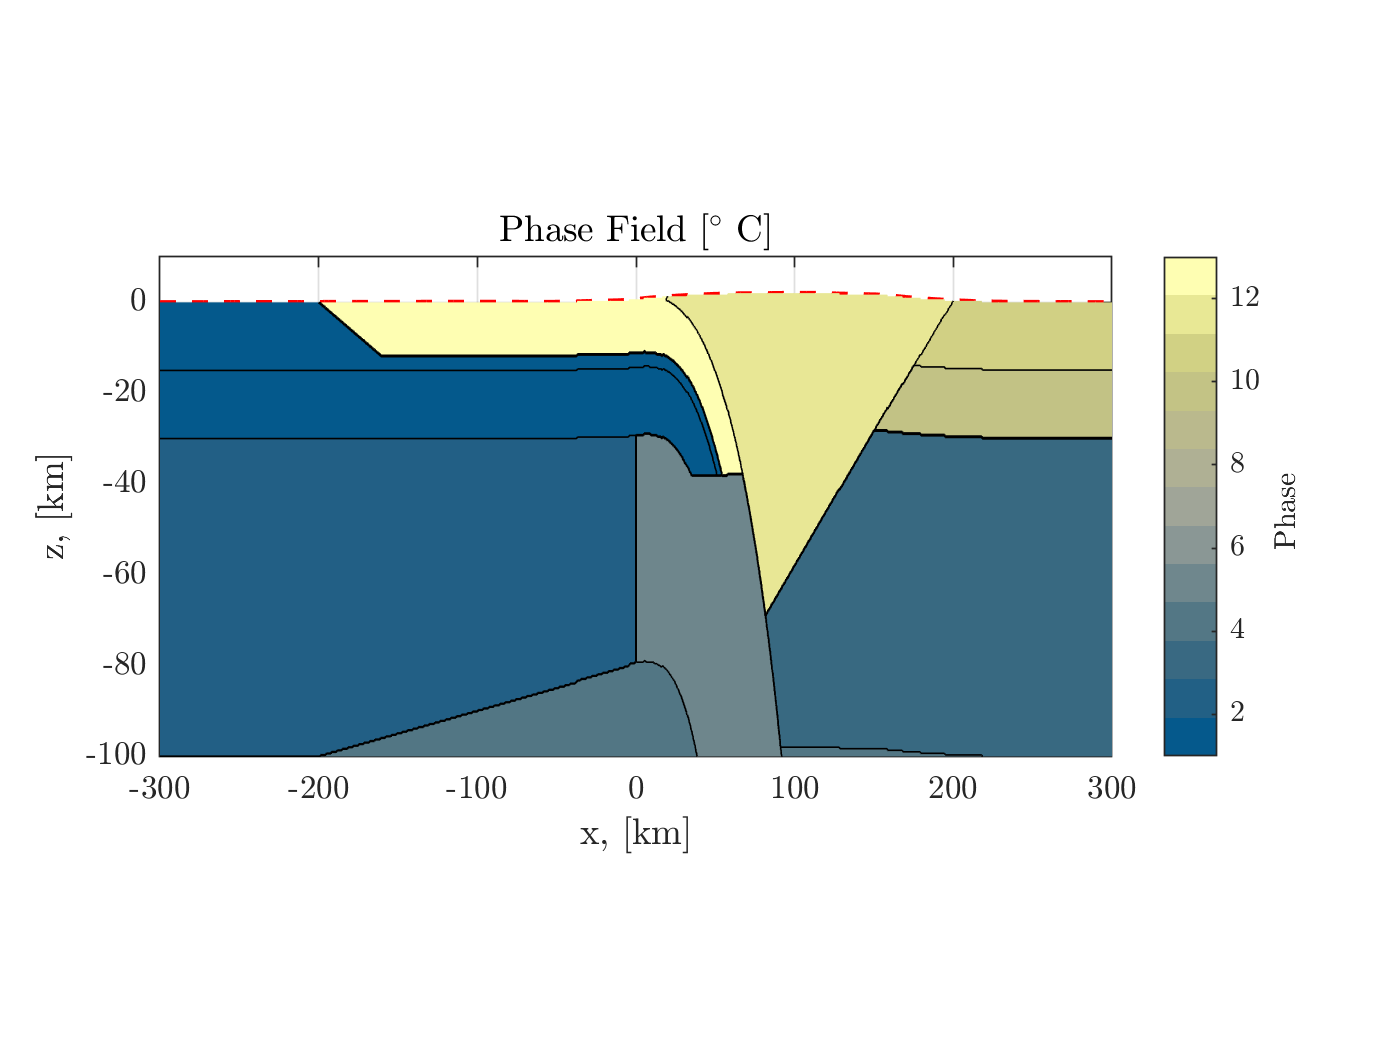
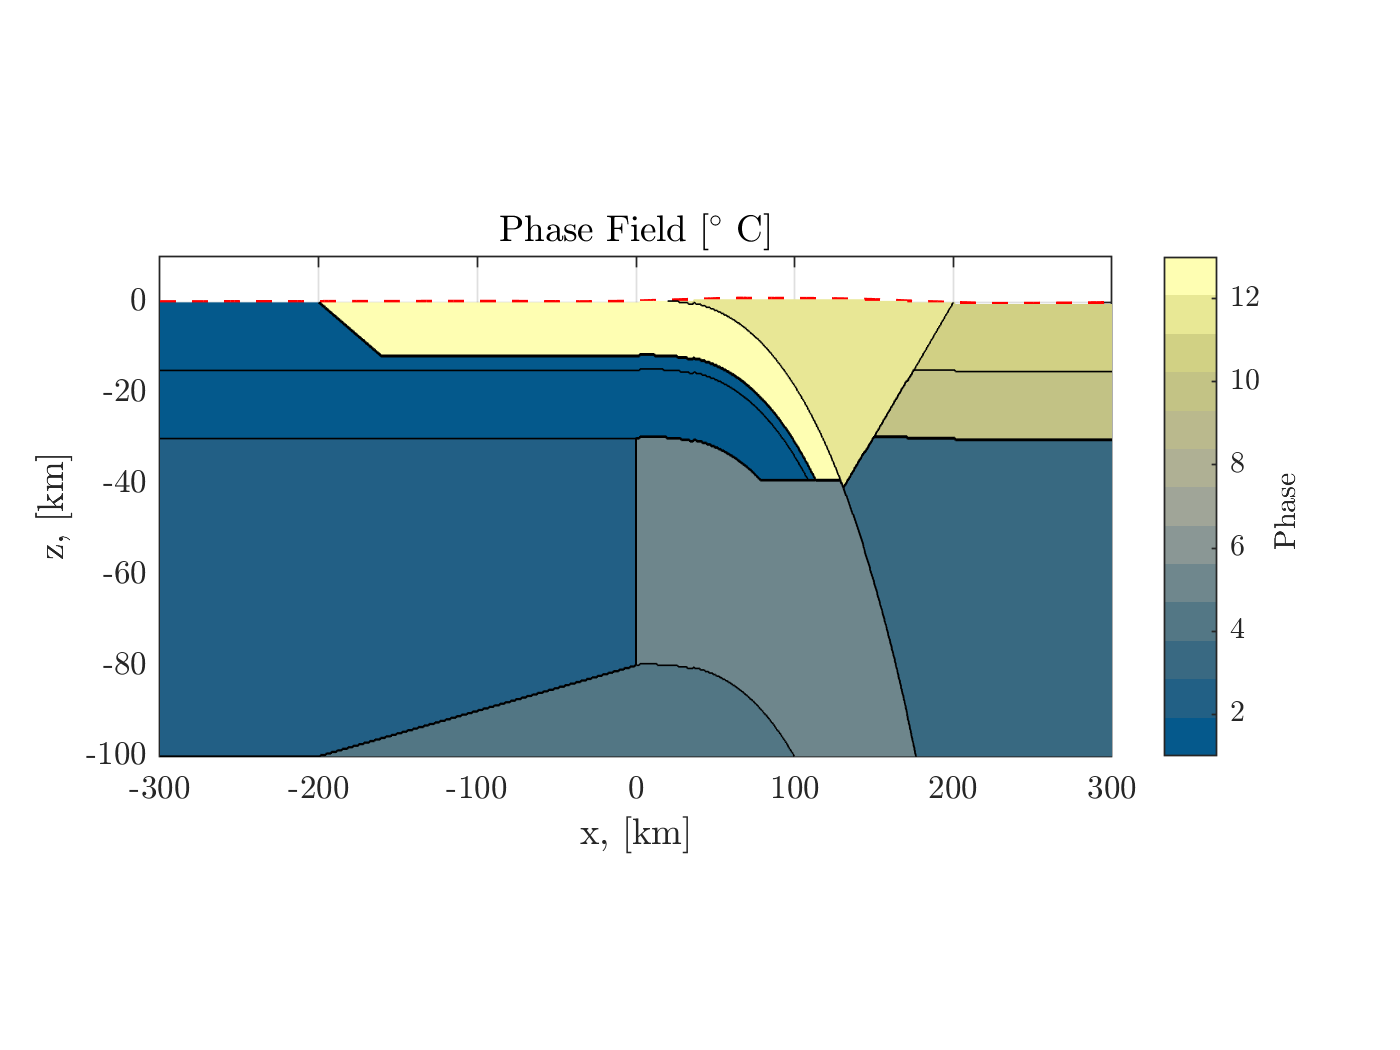
updates

Changed region(s): [[0.3993, 0.2743, 0.7986, 0.7314]]

diff --git a/Curry_Wurst_Slab_2D.m b/Curry_Wurst_Slab_2D.m
@@ -16,7 +16,7 @@ Parallel_partition     = 'ProcessorPartitioning_8cpu_4.1.2.bin';
 T.R        = 40;   %curvature radius
 T.theta_c  = 30;   %curvature radius ingested continental crust
 T.theta_dc = 20;   % additional curvature to emulate passive margin (optional)
-T.theta    = 70;   % curvature slab
+T.theta    = 90;   % curvature slab
 T.tk_WZ    = 0;   % thickness of the weak zone
 T.L0       = 500;  % length of the slab from the bottom of the lithosphere
 T.D0       = 80;   % Thickness of the slab
@@ -26,7 +26,7 @@ T.r  = [T.R T.R+T.D0];
 T.r_WZ = [T.r(2), T.r(2)+T.tk_WZ];
 T.D_WZ = -100;
 T.Depth_C = -40;
-T.Length = 455;
+T.Length = 500;
 T.Type = 'Ribe_Mode'; % 'Ribe_Mode'
 T.CCS.phases = [13,1,2];
 T.CCS.Stratigraphy=[0,-12,-15,-30];
@@ -325,7 +325,7 @@ r     = Slab.r;
 L0    = Slab.L0 - Slab.R;
 sl    = 1               ;
 arc_angleS = [];
-if ~strcmp(type,'Ribe_Mode')
+if ~strcmp(type,'Mode_1')
     ind = (A.Xpart(:)>=Slab.C(1) & A.Xpart(:)<=Slab.C(1)+2.*L0) & A.Zpart(:)>=-1.5*L0 & A.Zpart(:)<=1.0;
     A_time = cputime;
     x     = A.Xpart(:);
@@ -412,52 +412,44 @@ if strcmp(Slab.Type,'Ribe_Mode')
     if strcmp(type,'Weak')
         weak_flag = 1;
     end
-    % Ribe equation can create artifacts if certain market that does not
-    % belong to the slab are taken into account. Since most of the
-    % algorithm lies on the distance estimation from a point and a generic
-    % curve, it is not possible to predict before hand which marker is not
-    % belonging to the slab. A quick hack is to select the markers that
-    % feature a z position passing through the mid surface
-    % perpendicolarly
-    %compute arc_leght of the slab numerically
-    f_min_ = @(x) find_the_length_slab(theta,x,Slab.Length,C(1));
-    L0N =fzero(f_min_,Slab.L0);
-    % Ribe equations, as can be appreciated involves tangent. Tangent of
-    % angle close to 90 are going to infinite. Trying to solve this issue,
-    % but I need to find a cut off criteria for this method.
-    if L0N < D0
-        L0N = D0;
-    end
-    %Compute the top surface of the slab
-    z_top_f =-tan(theta*pi/180).*L0N ;
-    % Compute  the lowest point of the surface
-    P_B  = [(L0N-5)-sin(theta*pi/180)*D0, z_top_f-cos(theta*pi/180)*D0];
-    % Compute the slope of the thickness  (i.e. from the last point of the
-    line_m = (z_top_f-P_B(2))./(C(1)+L0N-5-P_B(1)); %
-    %Choose the marker that are loved by god.
-    % => Use the length of the slab for selecting the marker that are
-    % reasonably within the slab. (ArcLength)
-    % => Do not use the full L0N (i.e., the C(1)-> C(1)+L0N is the most
-    % approiate. But the angle function provided by Ribe has a minimum
-    % exactly at x=L0, and this create a bending at the end of the slab.
-    ip = z_p >= C(2)-Slab.Length & z_p<=0.0 & x_p>=C(1) & x_p < C(1)+(L0N-5) & z_p>line_m.*(x_p-P_B(1))+P_B(2);
+    % New method: 
+    % I was not the brightest candle in the chandelor, and I believed to
+    % getting rid of rotation matrix by using a convoluted method. However
+    % this methods miserably fail in certain condition
+
+    % [A] : coordinate slab tip of the slab 
+    SA = [C(1)+L0;0];
+    SB = [C(1)+L0;-D0]; 
+    % [B]: Find the coordinate of the bended slab 
+    theta_r = theta*pi/180; 
+    rotation_matrix_0 = [cos(theta_r) sin(theta_r); -sin(theta_r) cos(theta_r)];
+    SAB = rotation_matrix_0*SA;
+    SBB = rotation_matrix_0*SB; 
+    %[C]: Find the limit of the points that are worth to check
+    z_lim = min(SBB(2),SAB(2));
+    x_lim = max(SAB(1),SBB(1));
+    % [D]: create index array of the choosen point
+    ip = z_p >= -L0 & z_p<=0.0 & x_p>=C(1) & x_p < C(1)+L0;
+    % [E] Find the angle of these points 
     x_pb = x_p(ip==1);
     z_pb = z_p(ip==1);
-    % Find the per each marker the x,z coordinate of their projection onto
-    % the top surface, and the derivative of the function.
-    [z_top,dz,~,~] = compute_ribe_angles(x_pb,C,theta,L0N,D0,weak_flag,Slab.tk_WZ,C(1)+L0N);
-    % Compute the distance of the point from the its projection onto the
-    % curve defined by ribe
-    x_t(ip==1) = (z_top-z_pb)./sqrt(1+dz.^2);
-    Layout     = -x_t;
-    %Compute the length associated with each marker
-   
-    if weak_flag == 0
-        Layout(Layout>0|Layout<-D0)=nan;
-    else
-        Layout(Layout>0|Layout<-Slab.tk_WZ)=nan;
-    end
+    % [F] Compute the bending angle. 
+    [~,~,~,~,teta_s] = compute_ribe_angles(x_pb,C,theta,L0,D0,weak_flag,Slab.tk_WZ,C(1)+L0);
+ %   P                = [x_pb;z_pb]; 
+    x_rot = x_pb.*cos(teta_s)-z_pb.*sin(teta_s);
+    z_rot = x_pb.*sin(teta_s)+z_pb.*cos(teta_s); 
+    % Select the point that are worth of the god love
+    ichosen =  x_rot < C(1)+L0 & z_rot>=-80 & z_rot<=0;
+    % Since i rotate the plate accordingly i save the depth of the plate 
+    z_pb(ichosen)=z_rot(ichosen);
+    z_pb(ichosen==0)=nan; 
+    x_pb(ichosen)=x_rot(ichosen);
+    x_pb(ichosen==0)=nan;
+    LLL = Layout; 
+    LLL(ip==1)=x_pb;
+    Layout(ip==1) = z_pb; 
     continent(z_p>=D_c)  = 1.0;
+
 
     Layout = reshape(Layout,size(A.Xpart));
     continent = reshape(continent,size(A.Xpart));
@@ -465,7 +457,7 @@ if strcmp(Slab.Type,'Ribe_Mode')
 end
 
 end
-function [z,dz,ztop,zbot] = compute_ribe_angles(xp,C,teta_0,L,D0,weak_flag,Tk,Lim)
+function [z,dz,ztop,zbot,teta_s] = compute_ribe_angles(xp,C,teta_0,L,D0,weak_flag,Tk,Lim)
 %=========================================================================%
 % TO DO A complete explanation
 %=========================================================================%

diff --git a/untitled.m b/untitled.m
@@ -1,0 +1,30 @@
+% Ribe 
+clf;
+
+L = 500; 
+x_t = 0:1:500;
+teta_0= 10:1:90; 
+[X,T] = meshgrid(x_t,teta_0);
+T     = T.*pi./180;
+teta=T.*X.^2.*((3.*L-2.*X))./(L^3);
+z =0; 
+teta_0 = 45.*pi./180;
+teta_s = teta_0.*x_t.^2.*((3.*L-2.*x_t))./(L^3);
+x_ = sin(teta_s.*((x_t-x_t(1))./(x_t(end)-x_t(1))));
+z_ = cos(teta_s.*((x_t-x_t(1))./(x_t(end)-x_t(1))));
+
+for i=1:length(x_t)
+    PA = [x_t(i);0];
+    PC = [x_t(i);-80];
+    rotation = [cos(teta_s(i)) sin(teta_s(i)); -sin(teta_s(i)) cos(teta_s(i))];
+    PB_ = rotation*PA;
+    PD_ = rotation*PC; 
+    PB(i,1) = PB_(1);
+    PB(i,2) = PB_(2); 
+    PD(i,1) = PD_(1);
+    PD(i,2) = PD_(2); 
+
+end
+
+
+plot(PD(:,1),PD(:,2))
